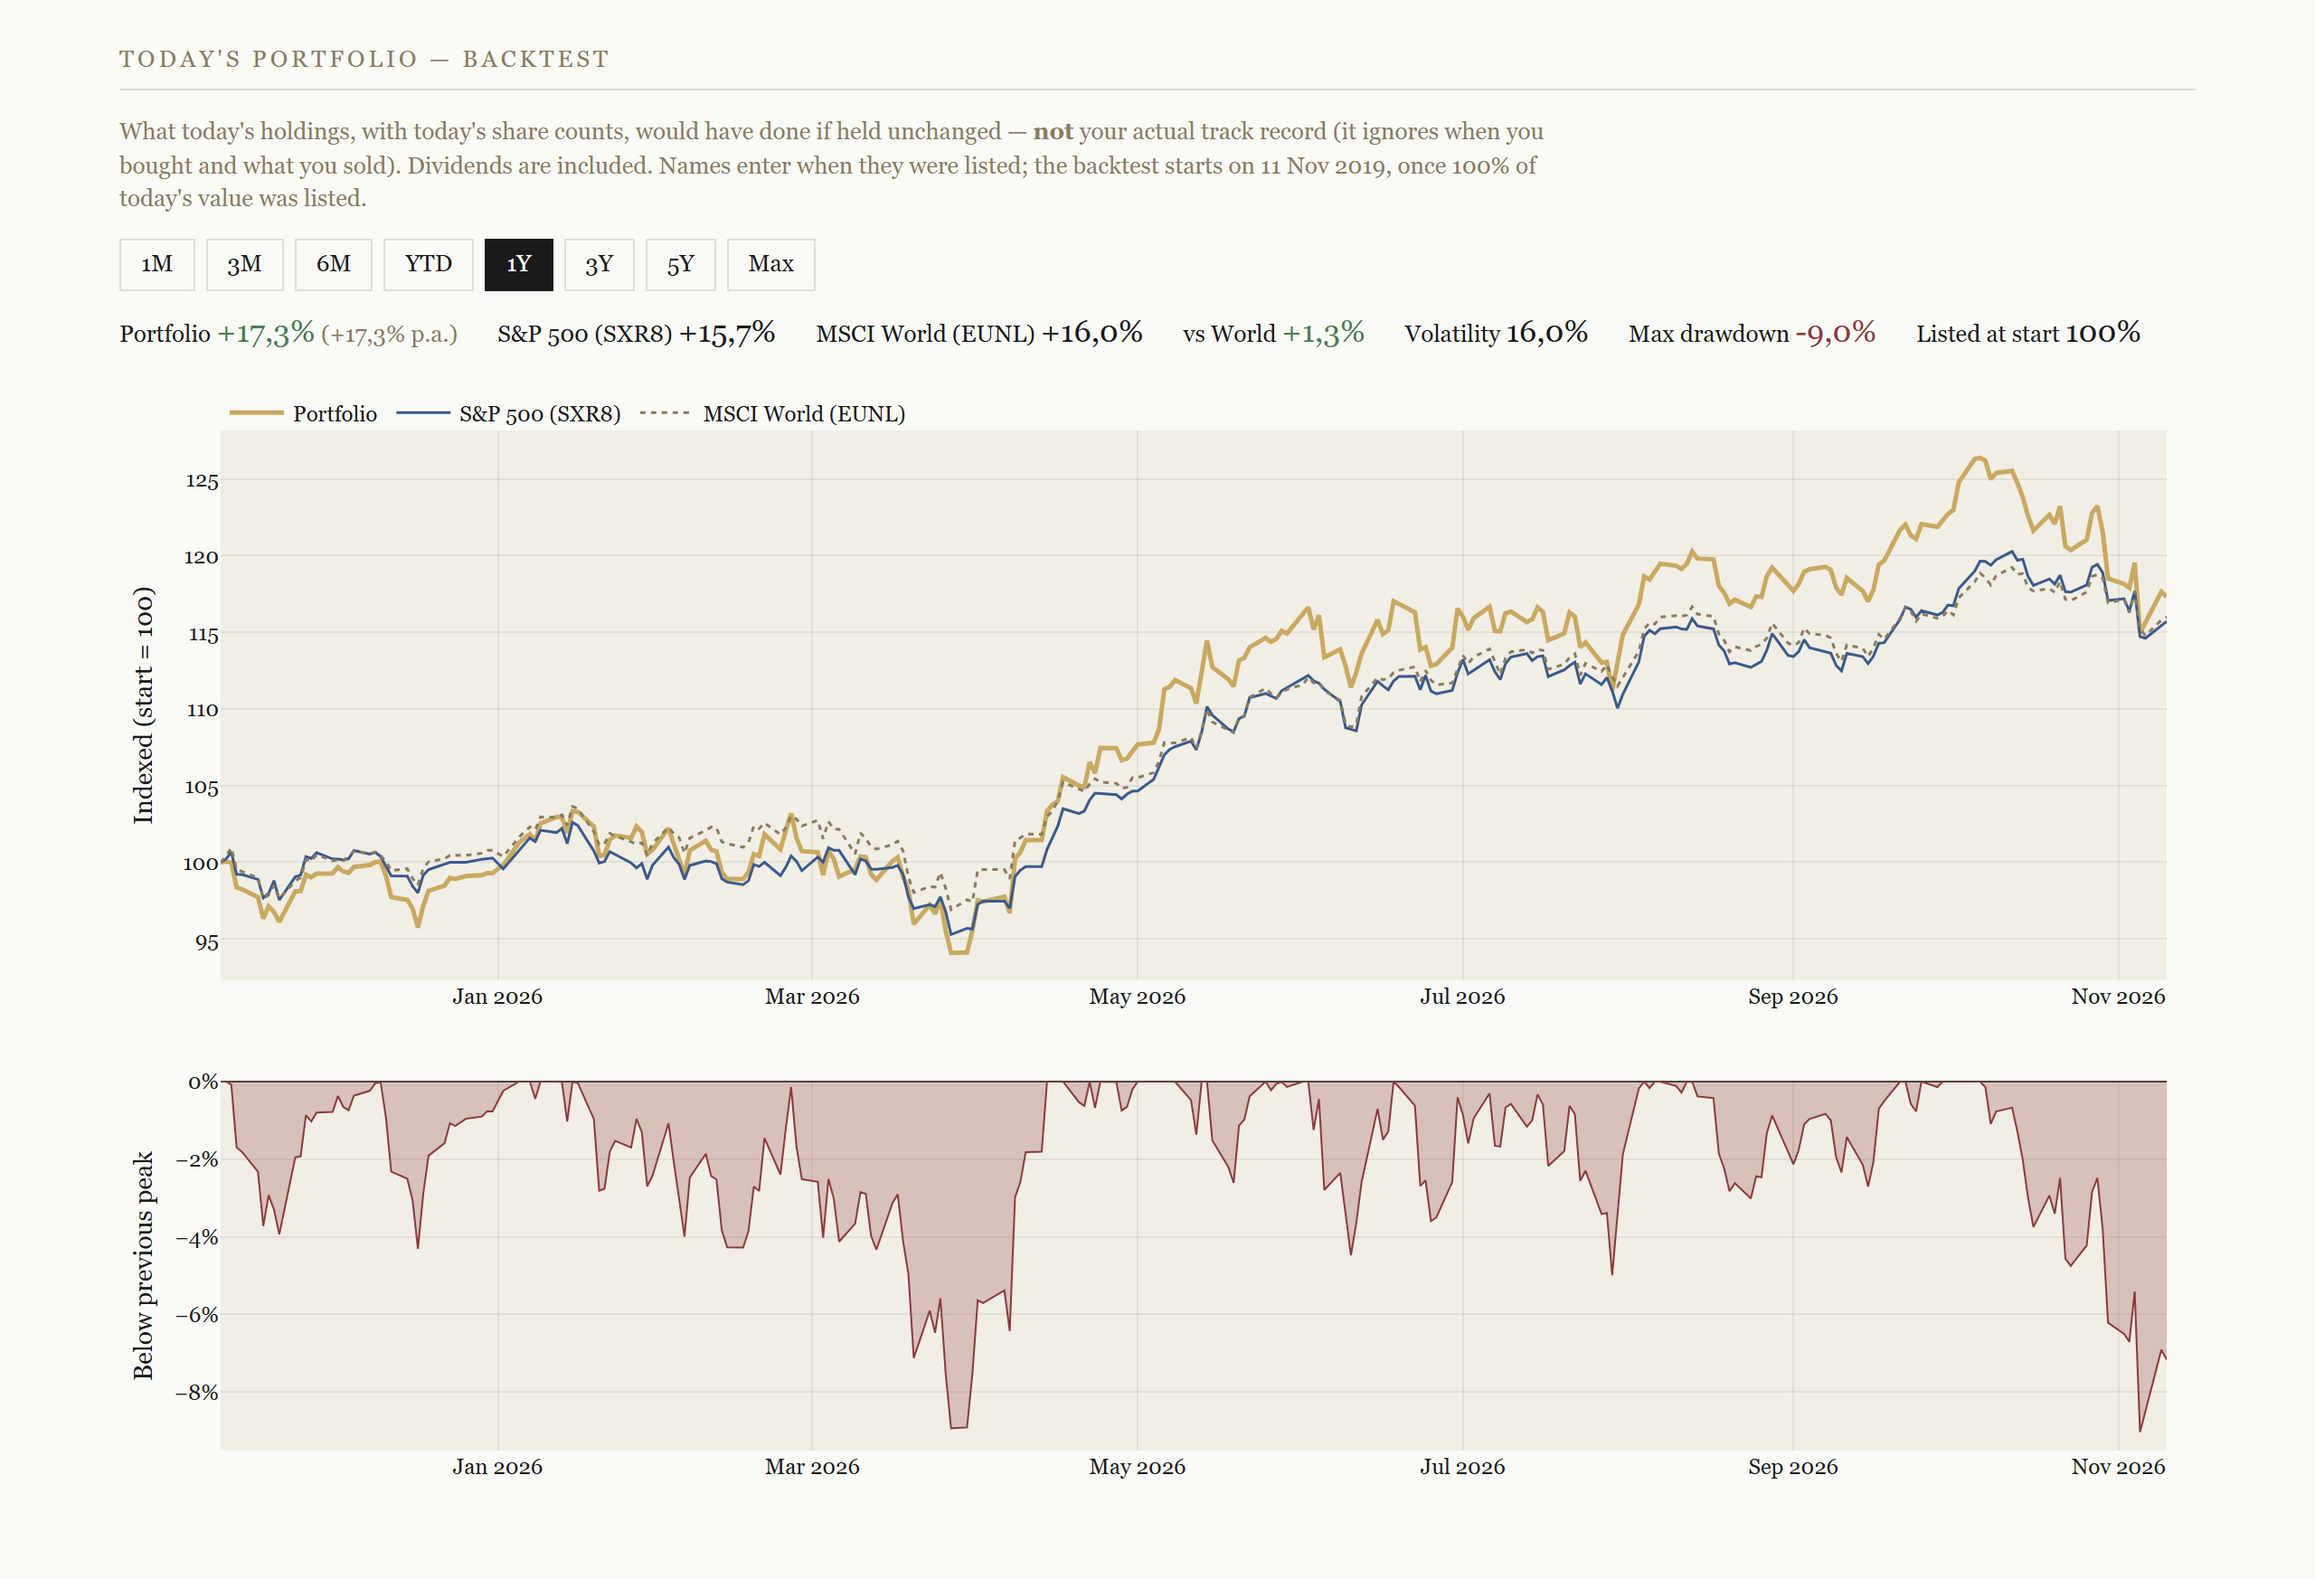
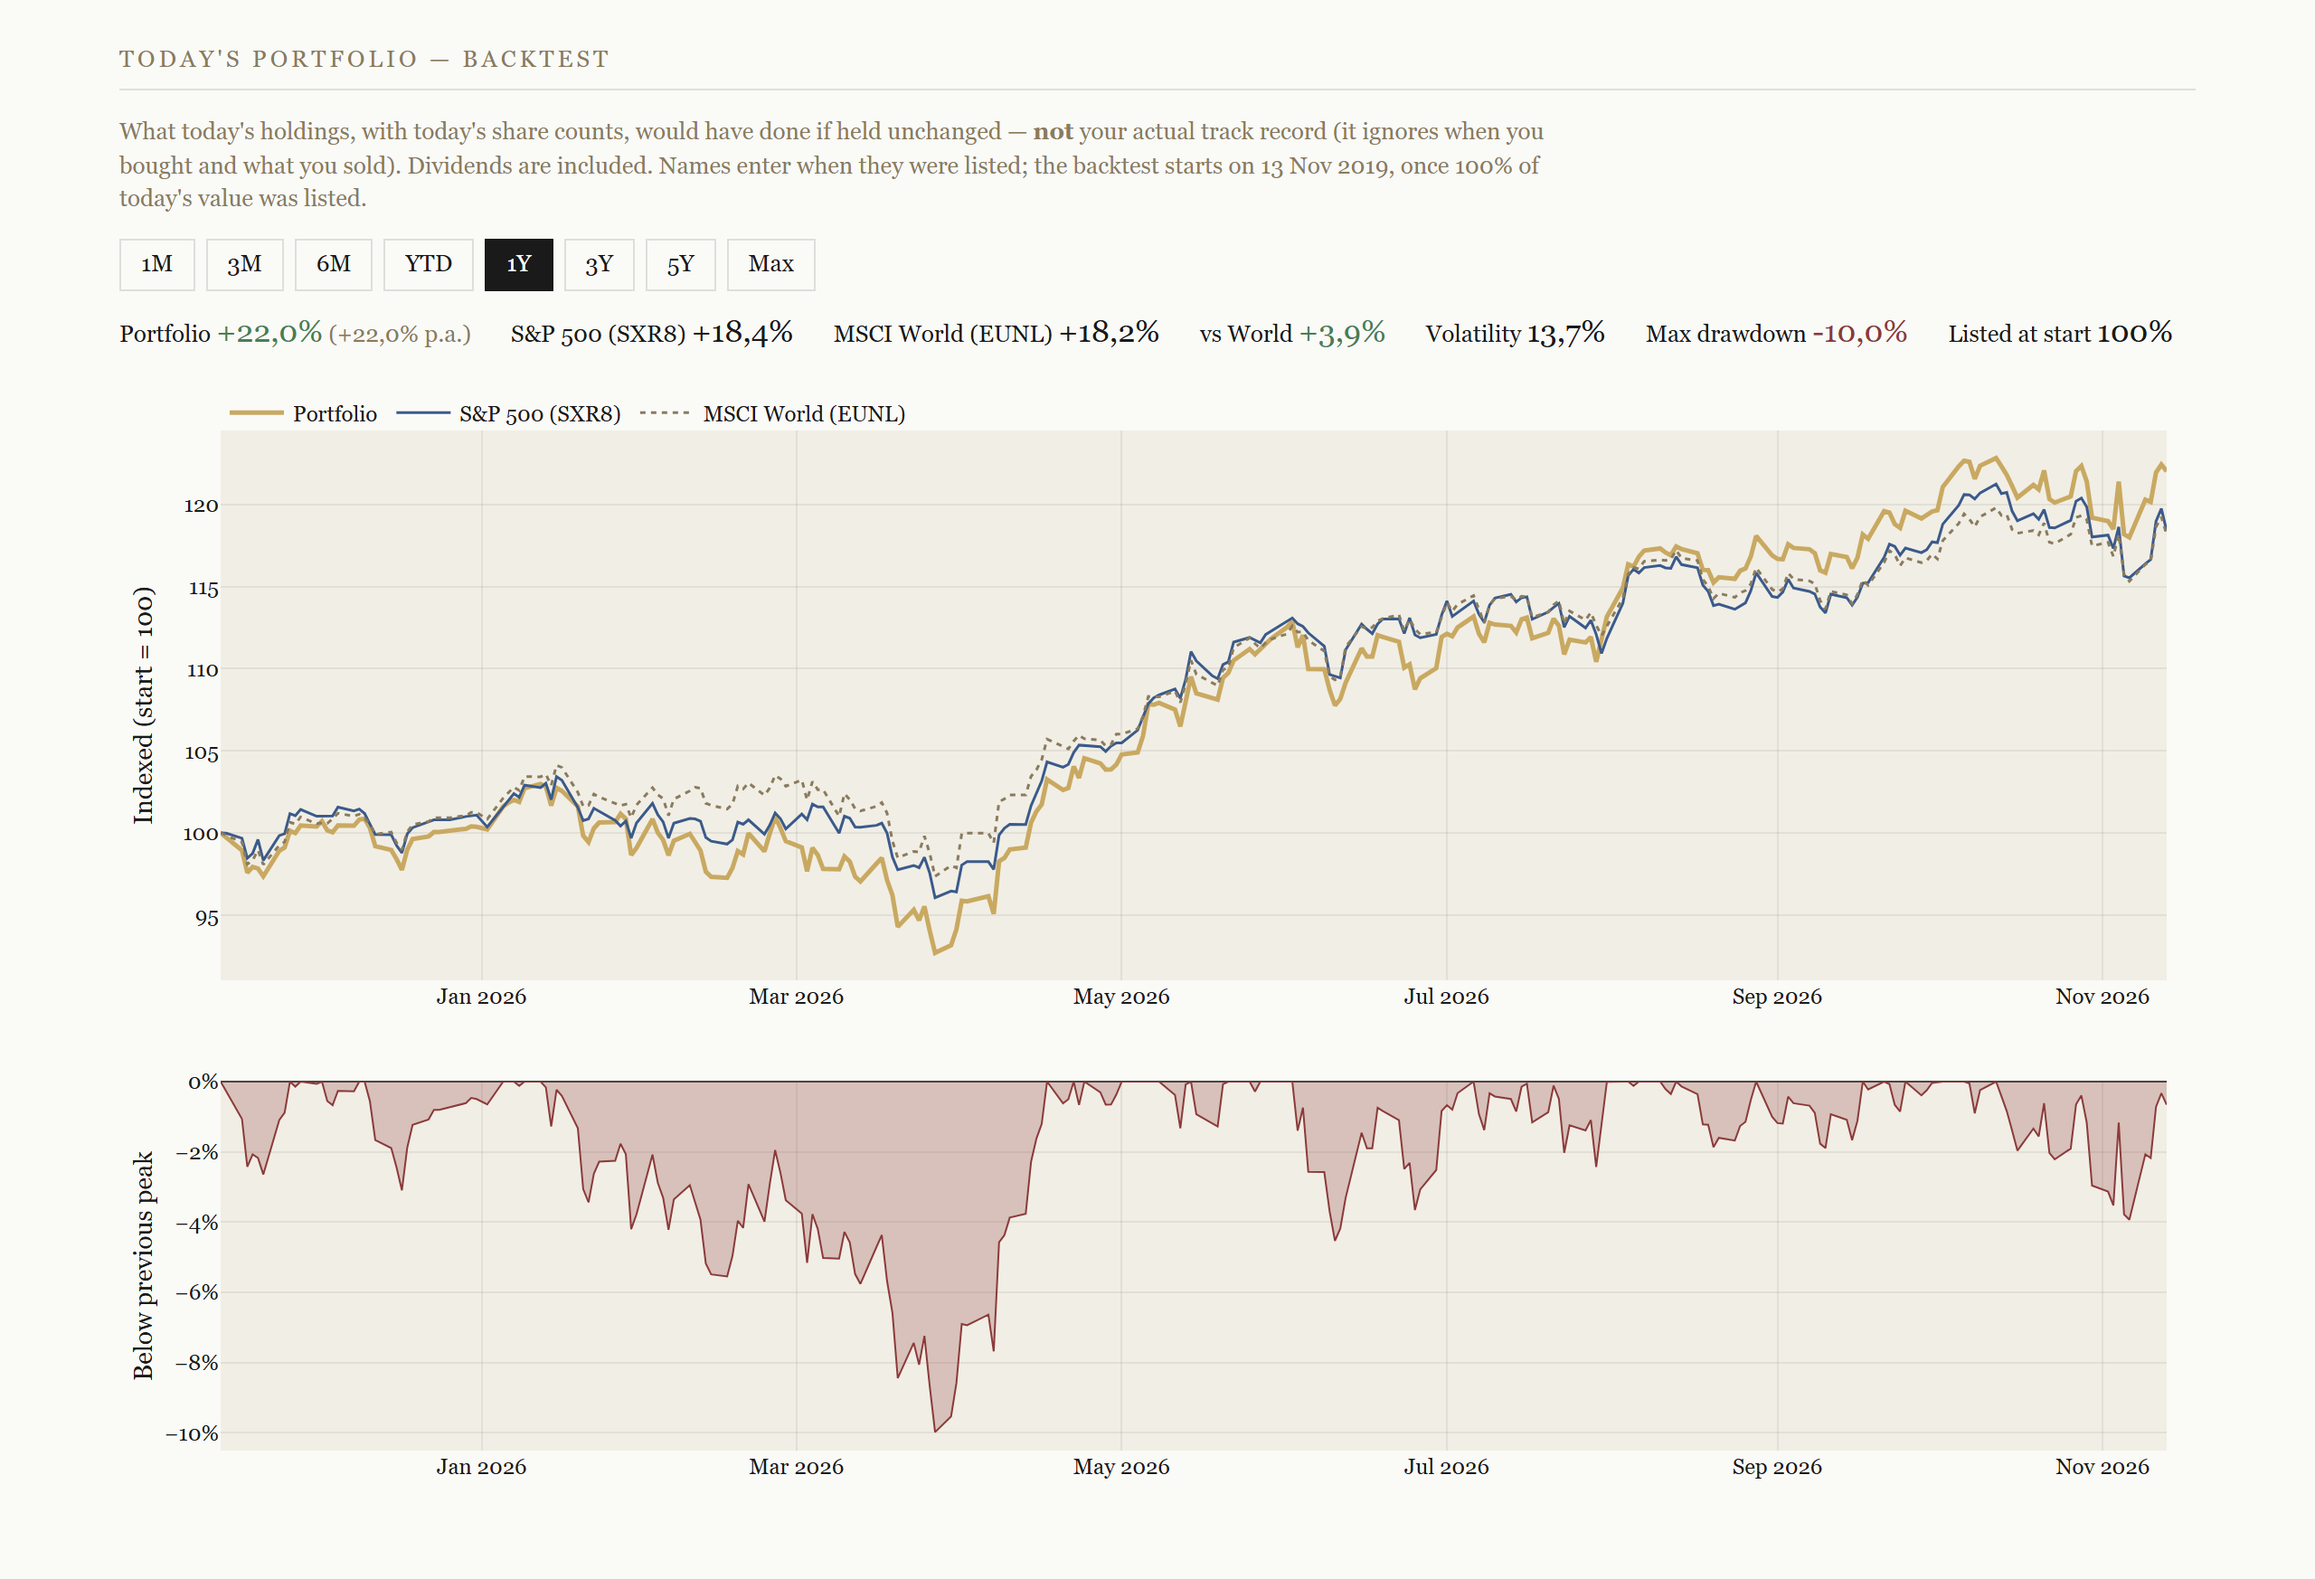
docs(demo): reweight the demo portfolio and refresh the screenshots
Fewer NVIDIA, Alphabet, ASML and TSMC shares and more Apple, Amazon, SAP and Allianz, so the demo's fortnight and month are positive at today's real prices. All eight README screenshots are rebuilt from the demo and show the new positions table.

diff --git a/tools/make_demo_data.py b/tools/make_demo_data.py
@@ -31,15 +31,15 @@ HOLDINGS = [
     ("SXR8.DE", "iShares Core S&P 500 UCITS ETF", "EUR", 14),
     ("EUNL.DE", "iShares Core MSCI World UCITS ETF", "EUR", 55),
     ("IS3N.DE", "iShares Core MSCI EM IMI UCITS ETF", "EUR", 120),
-    ("AAPL", "Apple", "USD", 18),
+    ("AAPL", "Apple", "USD", 24),
     ("MSFT", "Microsoft", "USD", 9),
-    ("NVDA", "NVIDIA", "USD", 30),
-    ("AMZN", "Amazon", "USD", 16),
-    ("GOOGL", "Alphabet", "USD", 14),
-    ("ASML.AS", "ASML Holding", "EUR", 4),
-    ("SAP.DE", "SAP", "EUR", 10),
-    ("ALV.DE", "Allianz", "EUR", 7),
-    ("TSM", "Taiwan Semiconductor", "USD", 12),
+    ("NVDA", "NVIDIA", "USD", 6),
+    ("AMZN", "Amazon", "USD", 22),
+    ("GOOGL", "Alphabet", "USD", 4),
+    ("ASML.AS", "ASML Holding", "EUR", 2),
+    ("SAP.DE", "SAP", "EUR", 20),
+    ("ALV.DE", "Allianz", "EUR", 15),
+    ("TSM", "Taiwan Semiconductor", "USD", 9),
 ]
 MONTHLY_SAVINGS_EUR = 600.0
 PLAN_START = date(2023, 1, 2)
